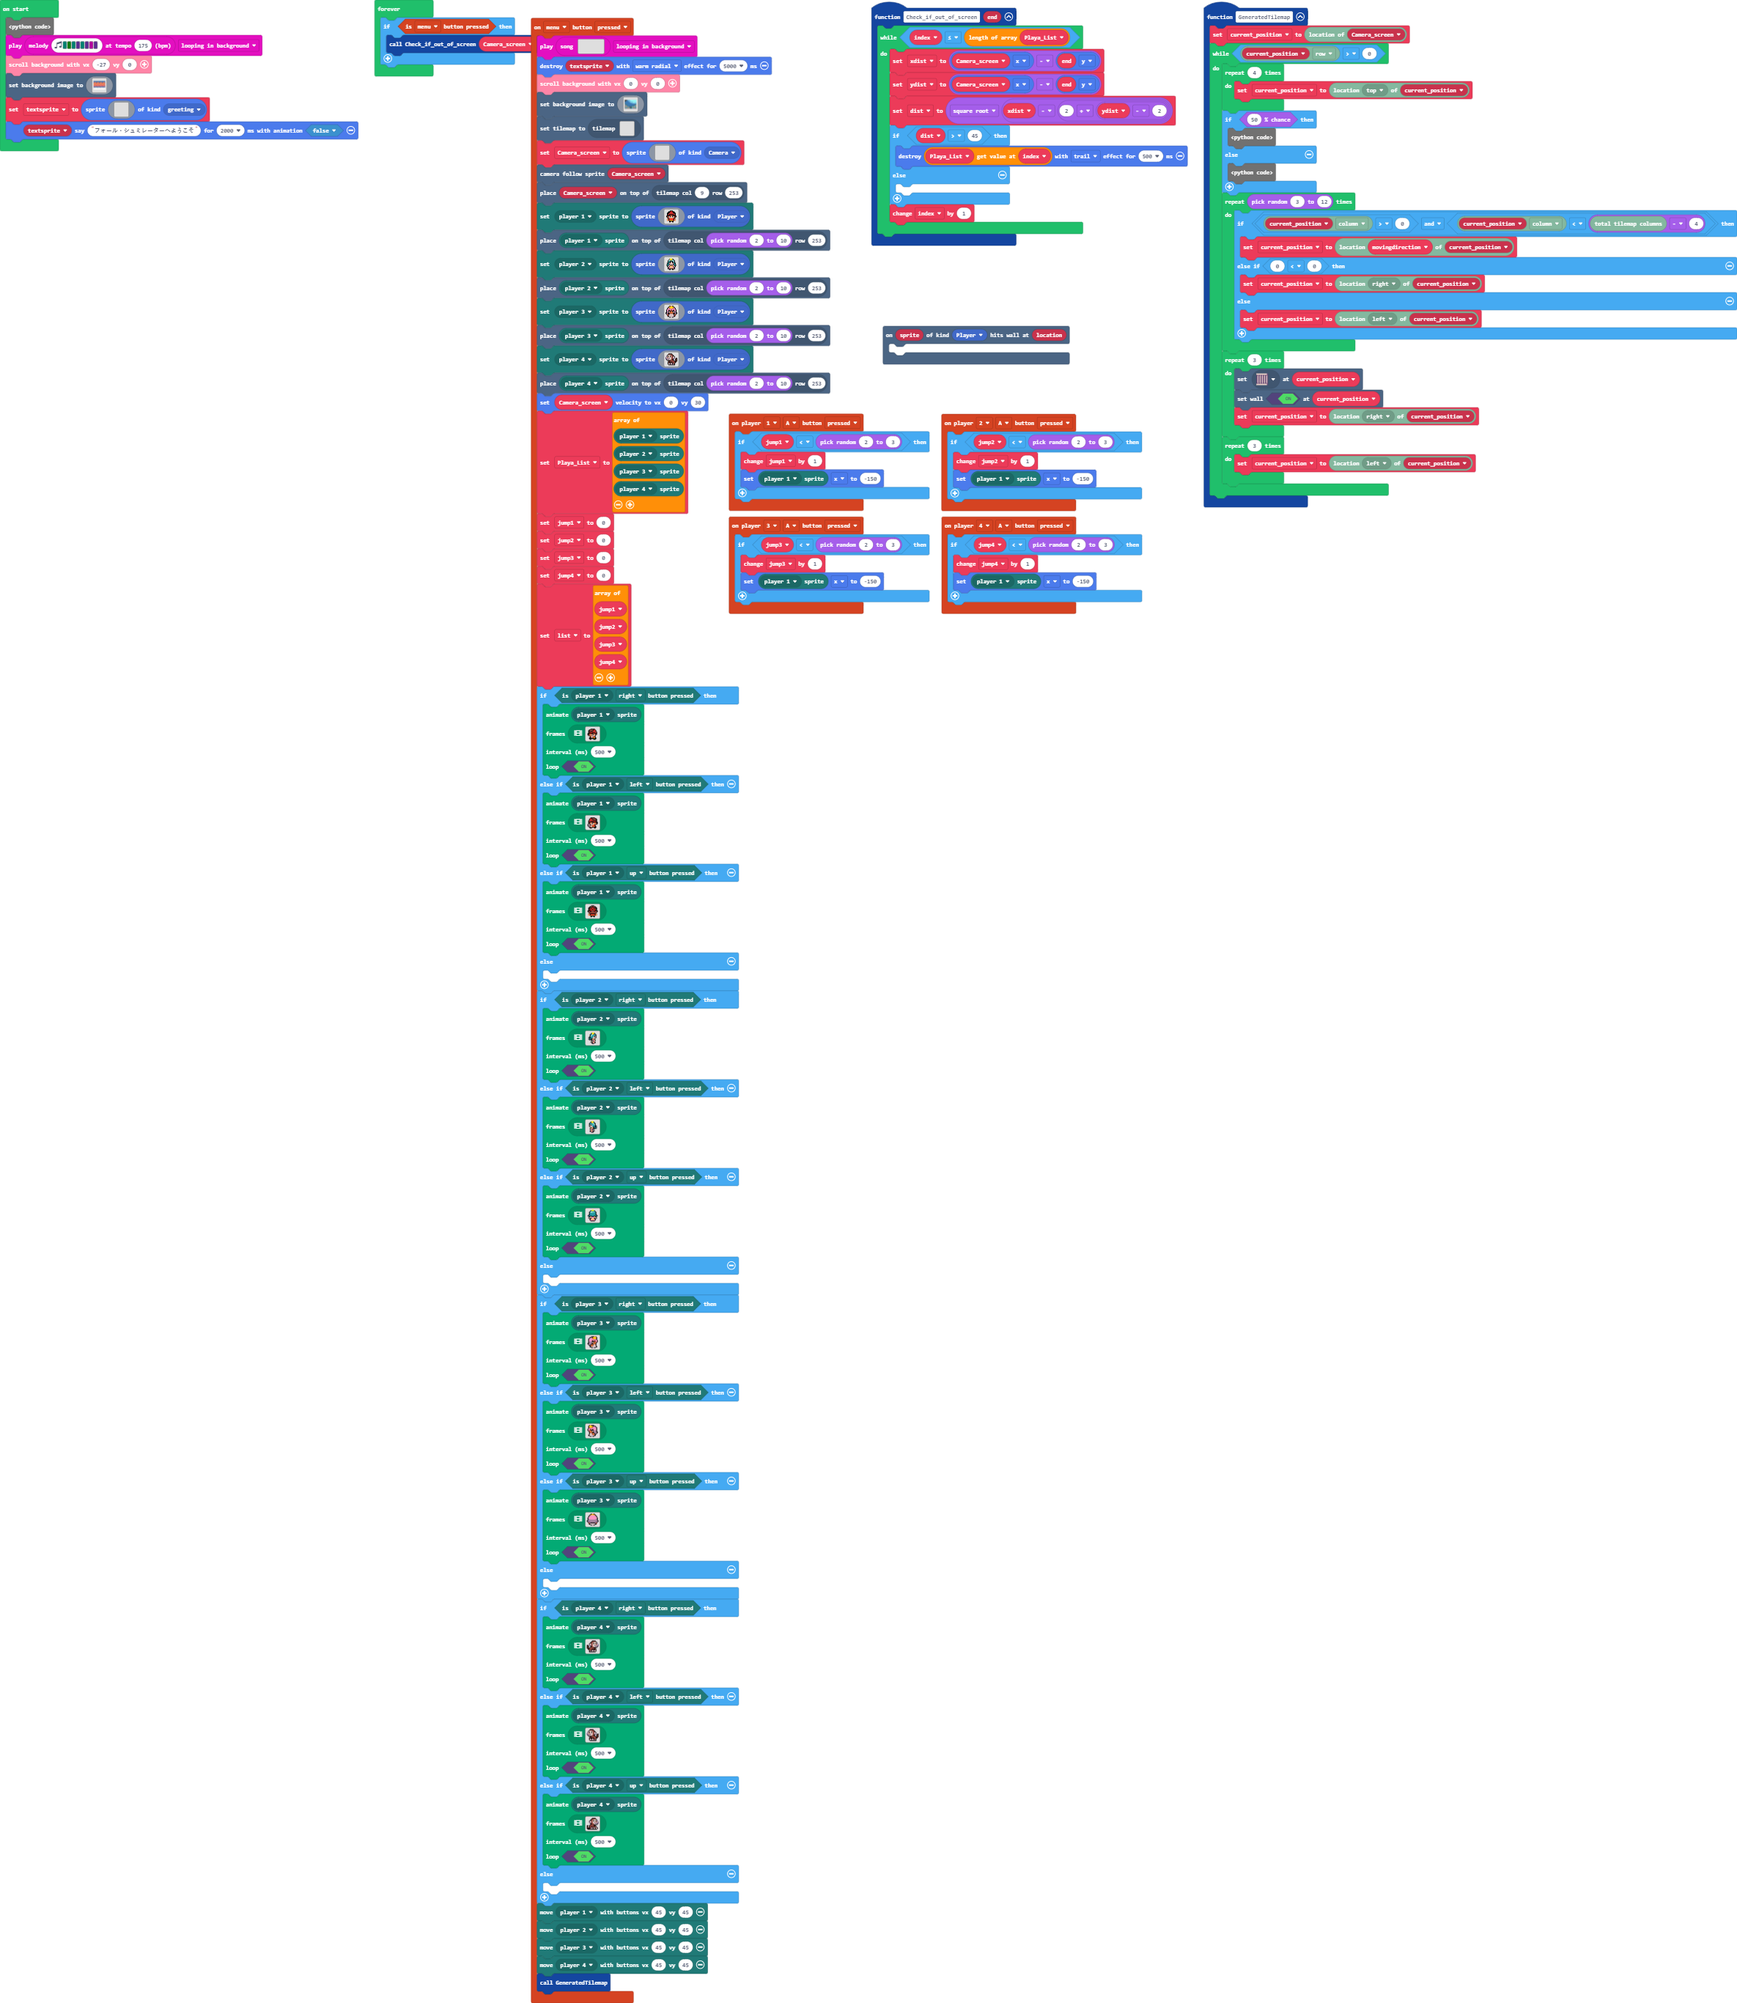
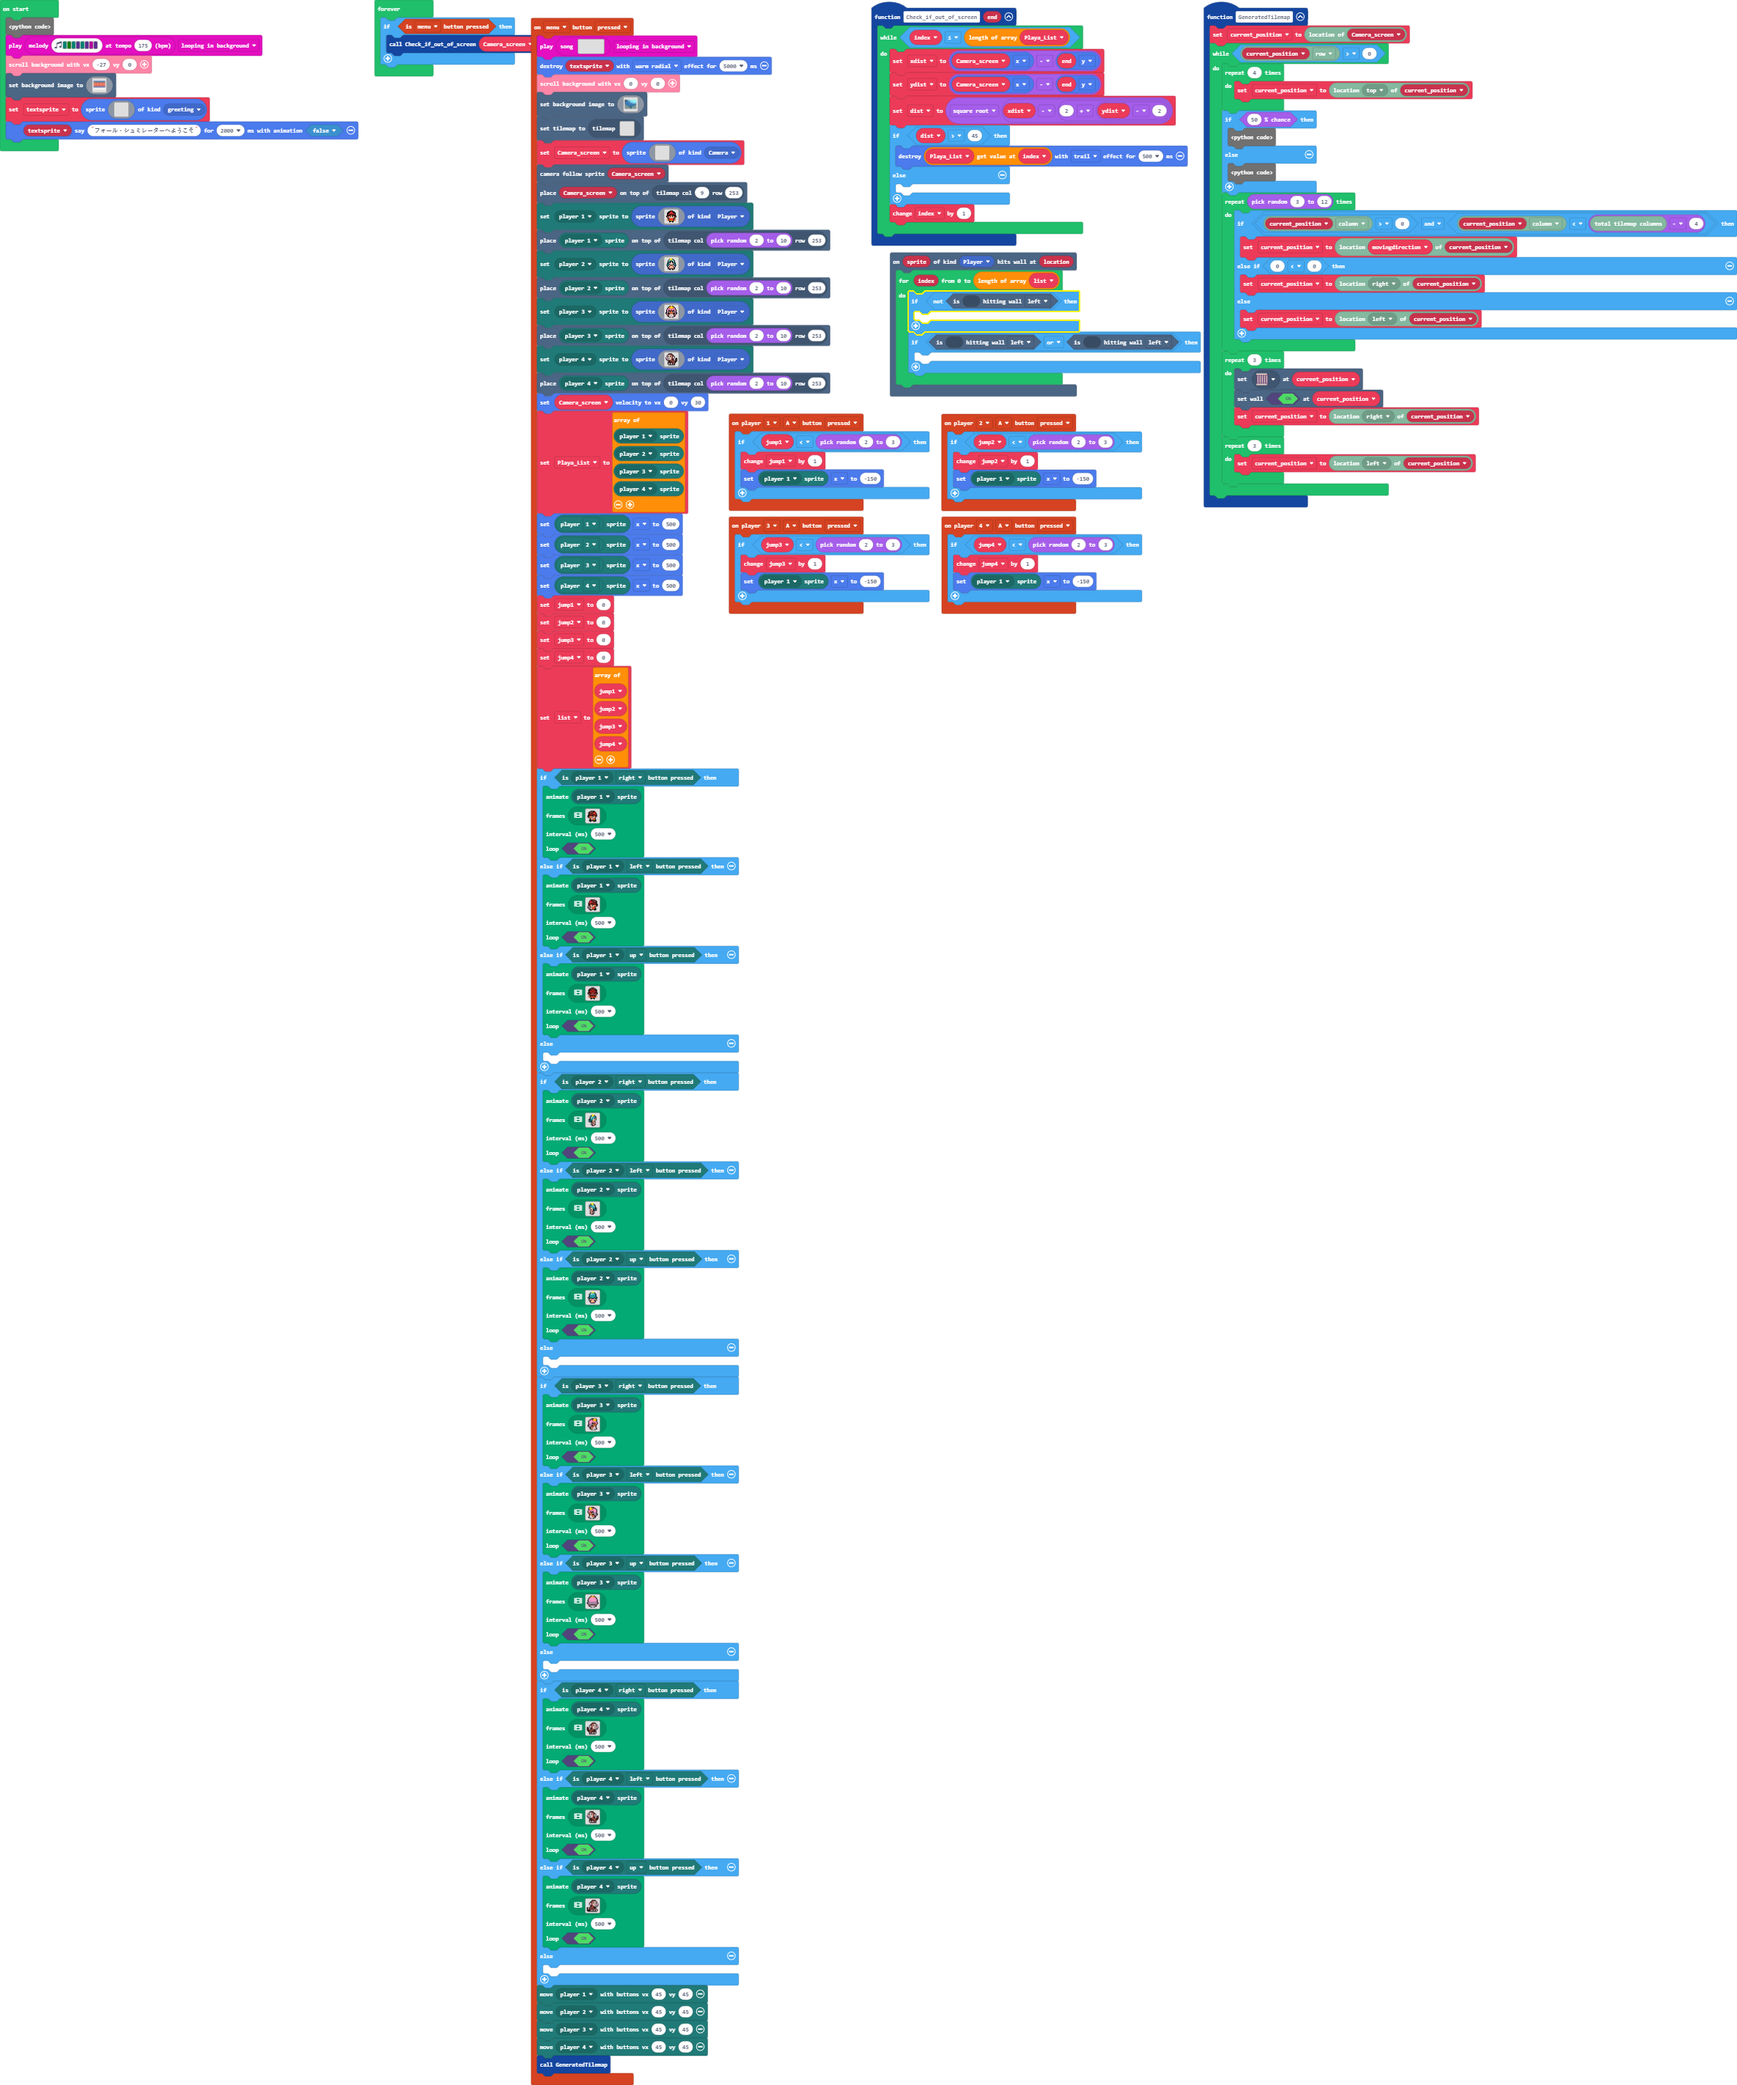
Update main.blocks, main.ts, tilemap.g.jres, tilemap.g.ts

Changed region(s): [[0.2186, 0.0, 1.0, 0.9952], [0.0, 0.0, 0.2186, 0.0933]]

diff --git a/main.ts b/main.ts
@@ -3,7 +3,14 @@ namespace SpriteKind {
     export const greeting = SpriteKind.create()
 }
 scene.onHitWall(SpriteKind.Player, function (sprite, location) {
-	
+    for (let index = 0; index <= list.length; index++) {
+        if (!(null.isHittingTile(CollisionDirection.Left))) {
+        	
+        }
+        if (null.isHittingTile(CollisionDirection.Left) || null.isHittingTile(CollisionDirection.Left)) {
+        	
+        }
+    }
 })
 controller.player2.onButtonEvent(ControllerButton.A, ControllerButtonEvent.Pressed, function () {
     if (jump2 < randint(2, 3)) {
@@ -260,6 +267,10 @@ controller.menu.onEvent(ControllerButtonEvent.Pressed, function () {
     mp.getPlayerSprite(mp.playerSelector(mp.PlayerNumber.Three)),
     mp.getPlayerSprite(mp.playerSelector(mp.PlayerNumber.Four))
     ]
+    mp.getPlayerSprite(mp.playerSelector(mp.PlayerNumber.One)).x = 500
+    mp.getPlayerSprite(mp.playerSelector(mp.PlayerNumber.Two)).x = 500
+    mp.getPlayerSprite(mp.playerSelector(mp.PlayerNumber.Three)).x = 500
+    mp.getPlayerSprite(mp.playerSelector(mp.PlayerNumber.Four)).x = 500
     jump1 = 0
     jump2 = 0
     jump3 = 0
@@ -1180,7 +1191,6 @@ function GeneratedTilemap () {
     }
 }
 let current_position: tiles.Location = null
-let list: number[] = []
 let jump3 = 0
 let jump1 = 0
 let jump4 = 0
@@ -1191,6 +1201,7 @@ let xdist = 0
 let Playa_List: Sprite[] = []
 let index = 0
 let jump2 = 0
+let list: number[] = []
 let textsprite: Sprite = null
 let movingdirection : number = null
 music.play(music.stringPlayable("F G F D F D C D ", 175), music.PlaybackMode.LoopingInBackground)

diff --git a/tilemap.g.ts b/tilemap.g.ts
@@ -339,6 +339,25 @@ namespace myTiles {
 . . . . . . . . . . . . . . . . 
 . . . . . . . . . . . . . . . . 
 `, [myTiles.transparency16], TileScale.Sixteen);
+            case "level6":
+            case "level6":return tiles.createTilemap(hex`1000100000000000000000000000000000000000000000000000000000000000000000000000000000000000000000000000000000000000000000000000000000000000000000000000000000000000000000000000000000000000000000000000000000000000000000000000000000000000000000000000000000000000000000000000000000000000000000000000000000000000000000000000000000000000000000000000000000000000000000000000000000000000000000000000000000000000000000000000000000000000000000000000000000000000000000000000000000000000000000000000000000000000000000000000000000000000`, img`
+. . . . . . . . . . . . . . . . 
+. . . . . . . . . . . . . . . . 
+. . . . . . . . . . . . . . . . 
+. . . . . . . . . . . . . . . . 
+. . . . . . . . . . . . . . . . 
+. . . . . . . . . . . . . . . . 
+. . . . . . . . . . . . . . . . 
+. . . . . . . . . . . . . . . . 
+. . . . . . . . . . . . . . . . 
+. . . . . . . . . . . . . . . . 
+. . . . . . . . . . . . . . . . 
+. . . . . . . . . . . . . . . . 
+. . . . . . . . . . . . . . . . 
+. . . . . . . . . . . . . . . . 
+. . . . . . . . . . . . . . . . 
+. . . . . . . . . . . . . . . . 
+`, [myTiles.transparency16], TileScale.Sixteen);
         }
         return null;
     })
